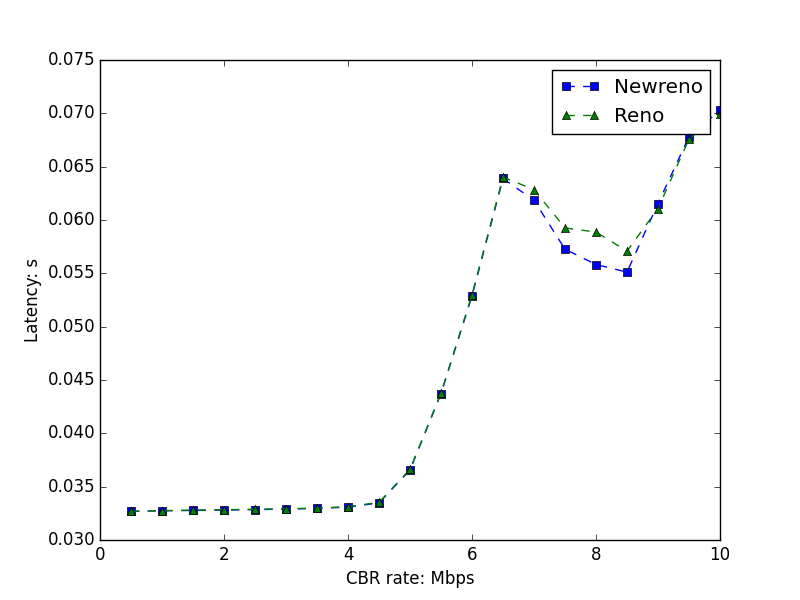
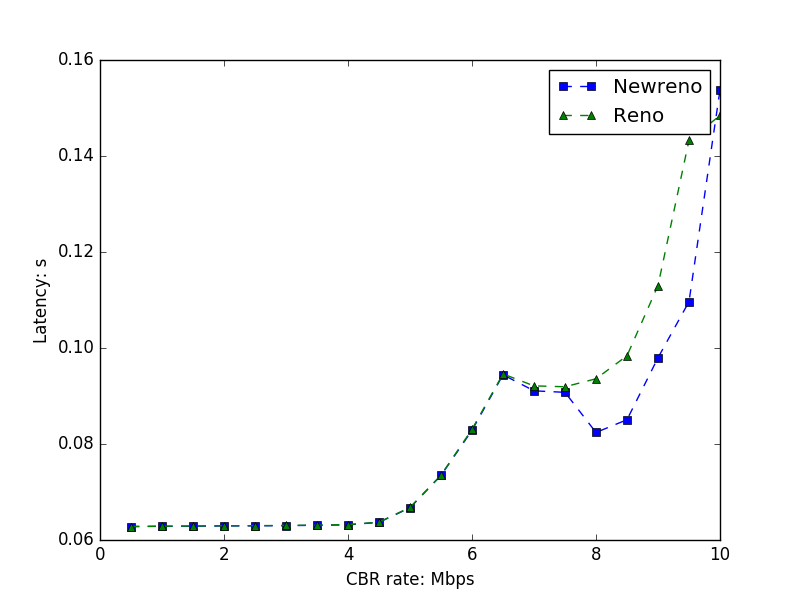
exp2 updated

diff --git a/p3/exp2/run_exp2.py b/p3/exp2/run_exp2.py
@@ -10,33 +10,41 @@ TestCase = [['Reno', 'Reno'], ['Newreno', 'Reno'], ['Vegas','Vegas'], ['Newreno'
 def statistic(fname, duration):
     with open(fname) as f:
         lines = f.readlines()
-    sendTime1, sendTime2 = {}, {}
+    window1, window2 = {}, {}
     send1, send2 = 0, 0
     recv1, recv2 = 0, 0
-    triptime1, triptime2 = 0, 0
+    total_rtt1, total_rtt2 = 0, 0
     size1, size2 = 0, 0
     for l in lines:
         fields = l.split()
-        if fields[0] == '+' and fields[2] == '0':
-            sendTime1[fields[11]] = float(fields[1])
+        action = fields[0]
+        time = float(fields[1])
+        source = fields[2]
+        dest = fields[3]
+        packetType = fields[4]
+        seq = fields[10]
+        if action == '+' and source == '0':
+            if seq not in window1:
+                window1[seq] = time
             send1 += 1
-        elif fields[0] == '+' and fields[2] == '4':
-            sendTime2[fields[11]] = float(fields[1])
-            send2 += 1            
-        elif fields[0] == 'r' and fields[3] == '3':
+        elif action == '+' and source == '4':
+            if seq not in window2:
+                window2[seq] = time
+            send2 += 1
+        elif action == 'r' and dest == '0' and packetType == 'ack' and (seq in window1):
             recv1 += 1
-            size1 += int(fields[5])
-            triptime1 += (float(fields[1]) - sendTime1[fields[11]])
-        elif fields[0] == 'r' and fields[3] == '5':
+            total_rtt1 += time - window1[seq]
+            window1.pop(seq)
+        elif action == 'r' and dest == '4' and packetType == 'ack' and (seq in window2):
             recv2 += 1
-            size2 += int(fields[5])
-            triptime2 += (float(fields[1]) - sendTime2[fields[11]])            
-    throughput1 = size1*8.0/duration/1024
+            total_rtt2 += time - window2[seq]
+            window2.pop(seq)
+    throughput1 = recv1 * 1040 * 8.0 / duration / 1024
     drop1 = (send1-recv1)*1.0/send1*100
-    latency1 = triptime1*1.0/recv1
-    throughput2 = size2*8.0/duration/1024
+    latency1 = total_rtt1*1.0/recv1
+    throughput2 = recv2 * 1040 * 8.0 / duration / 1024
     drop2 = (send2-recv2)*1.0/send2*100
-    latency2 = triptime2*1.0/recv2    
+    latency2 = total_rtt2*1.0/recv2
     return throughput1, drop1, latency1, throughput2, drop2, latency2
 
 def runExp1(cbr_start, cbr_end, step):
@@ -52,27 +60,17 @@ def runExp1(cbr_start, cbr_end, step):
             print typeName1 + ': ' + str(i*step) + 'mb'
             print typeName2 + ': ' + str(i*step) + 'mb'
             fname = 'exp2_{0}_{1}_{2}.tr'.format(typeName1, typeName2, str(i*step*10))
-            t_sum1, t_sum2 = 0, 0
-            d_sum1, d_sum2 = 0, 0
-            l_sum1, l_sum2 = 0, 0
-            times = 3
-            for t in range(times):
-                call(["/course/cs4700f12/ns-allinone-2.35/bin/ns", "experiment2.tcl", TCPType[typeName1], TCPType[typeName2], str(i*step), fname,
-                      str(2.0), str(10.0+t*1.0)])
-                t1, d1, l1, t2, d2, l2 = statistic(fname, 10.0+t*1.0-2.0)
-                t_sum1 += t1
-                d_sum1 += d1
-                l_sum1 += l1
-                t_sum2 += t2
-                d_sum2 += d2
-                l_sum2 += l2
-                os.remove(fname)
-            throughput1.append(t_sum1/times)
-            drop1.append(d_sum1/times)
-            latency1.append(l_sum1/times)
-            throughput2.append(t_sum2/times)
-            drop2.append(d_sum2/times)
-            latency2.append(l_sum2/times)            
+            #call(["/course/cs4700f12/ns-allinone-2.35/bin/ns", "experiment2.tcl", TCPType[typeName1], TCPType[typeName2], str(i*step), fname,
+            #      str(2.0), str(10.0+t*1.0)])
+            call(["ns", "experiment2.tcl", TCPType[typeName1], TCPType[typeName2], str(i*step), fname,
+                  str(2.0), str(10.0)])
+            t1, d1, l1, t2, d2, l2 = statistic(fname, 8.0)
+            throughput1.append(t1)
+            drop1.append(d1)
+            latency1.append(l1)
+            throughput2.append(t2)
+            drop2.append(d2)
+            latency2.append(l2)            
         stat1['thpt'].append(throughput1)
         stat1['drop'].append(drop1)
         stat1['lat'].append(latency1)
